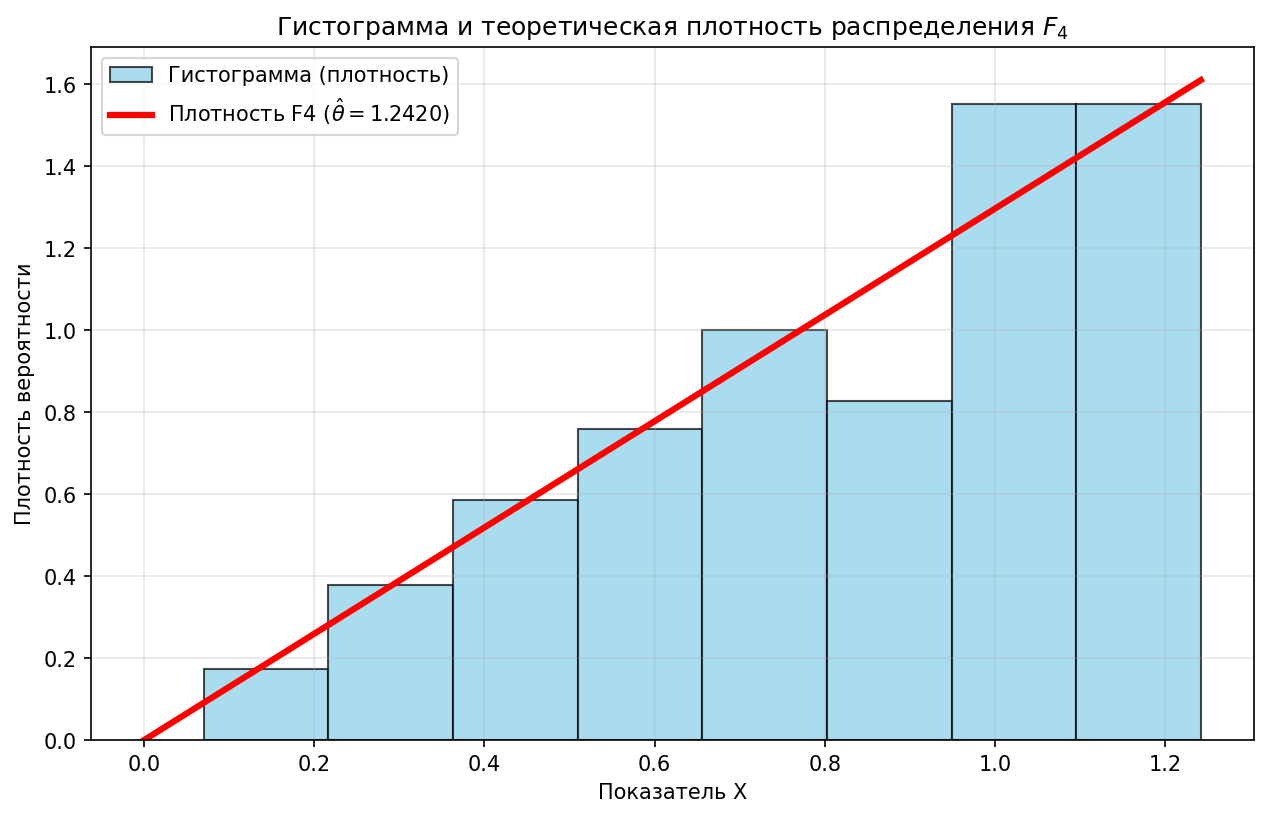
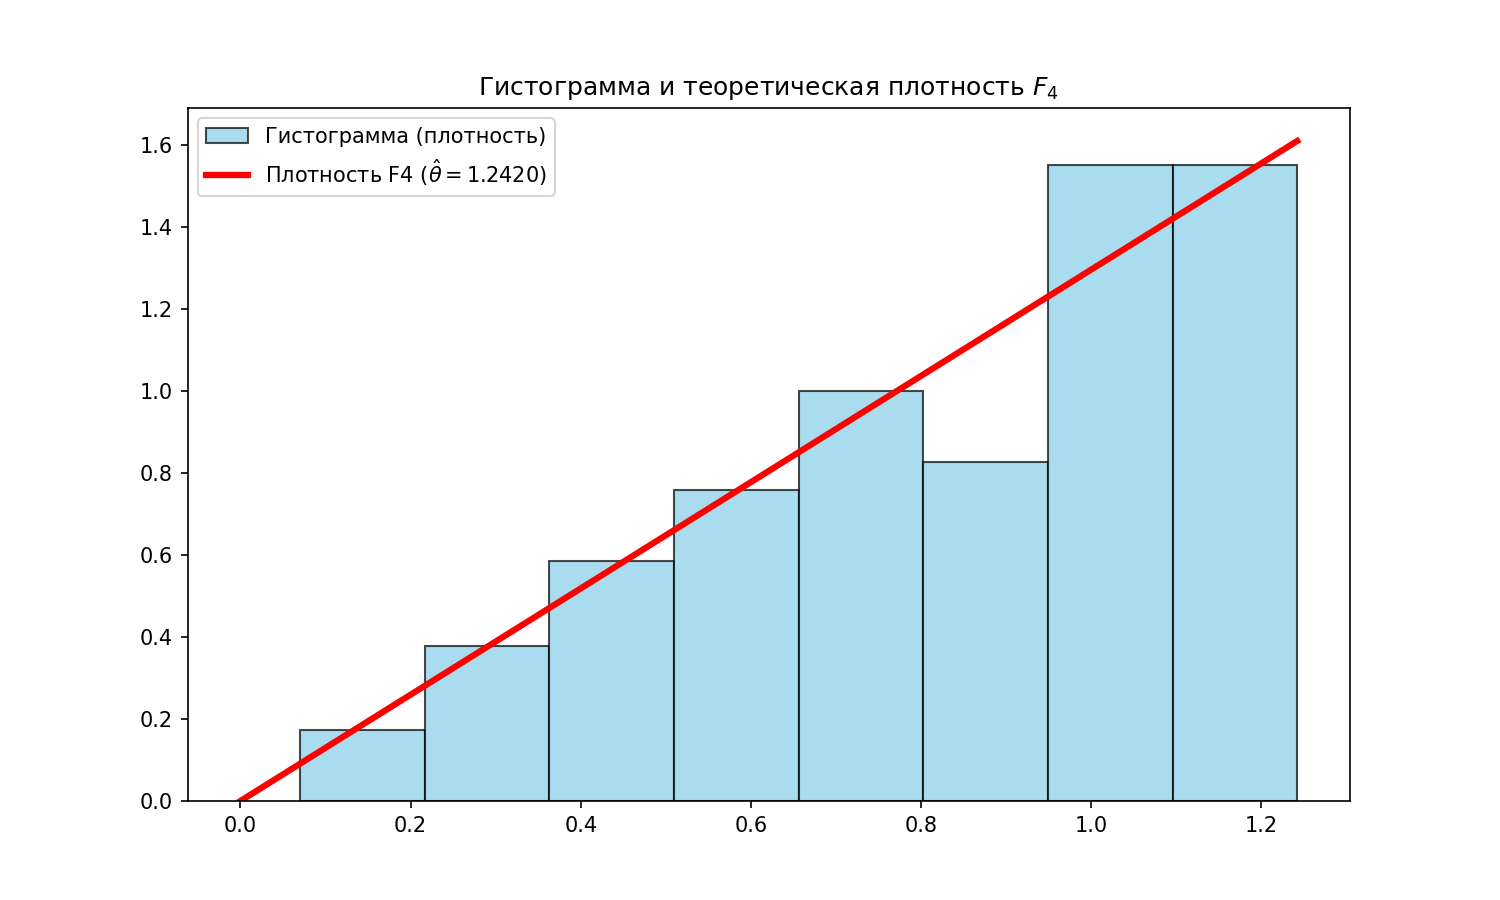
Refactor logging and statistical analysis output in main.py

diff --git a/main.py b/main.py
@@ -7,9 +7,9 @@ import matplotlib.pyplot as plt
 
 logging.basicConfig(
     level=logging.INFO,
-    format="%(asctime)s %(levelname)s: %(message)s",
+    format="%(message)s",
     handlers=[
-        logging.FileHandler('app.log', encoding='utf-8'),
+        logging.FileHandler('statistical_report.log', encoding='utf-8', mode='w'),
         logging.StreamHandler(sys.stdout)
     ]
 )
@@ -20,30 +20,27 @@ sheet_index = 5
 use_col = 0
 
 try:
-    logger.info(f"Attempting to read Excel file `data/data.xls`, sheet index {sheet_index}, column {use_col}")
     col = pd.read_excel(excel_path, sheet_name=sheet_index, usecols=[use_col])
     series = pd.to_numeric(col.iloc[:, 0], errors='coerce').dropna().astype(float)
     data = series.tolist()
-except Exception:
-    logger.exception(f"Failed to read Excel file `data/data.xls` (sheet {sheet_index + 1}, column {use_col + 1})")
-    raise
-
-if not data:
-    logger.error(f"No valid numeric data found in `data/data.xls` (sheet {sheet_index + 1}, column {use_col + 1})")
-    raise ValueError("No numeric data loaded")
+except Exception as e:
+    logger.error(f"Ошибка чтения файла: {e}")
+    sys.exit()
 
 n = len(data)
-logger.info(f"Loaded {n} records from `data/data.xls` (sheet {sheet_index + 1}, column {use_col + 1}). "
-            f"min={min(data):.4f}, max={max(data):.4f}, sample={data[:5]}")
+logger.info("=" * 60)
+logger.info(f"СТАТИСТИЧЕСКИЙ ОТЧЕТ ПО ВЫБОРКЕ (n = {n})")
+logger.info("=" * 60)
 
 # --- 7. Первичный анализ ---
-mean_x = sum(data) / n
-mean_x2 = sum(x ** 2 for x in data) / n
+sum_x = sum(data)
+sum_x2 = sum(x ** 2 for x in data)
+mean_x = sum_x / n
+mean_x2 = sum_x2 / n
 var_x = mean_x2 - (mean_x ** 2)
 std_x = math.sqrt(var_x)
 
 sorted_data = sorted(data)
-
 if n % 2 == 1:
     median = sorted_data[n // 2]
 else:
@@ -51,45 +48,41 @@ else:
 
 m3 = sum((x - mean_x) ** 3 for x in data) / n
 m4 = sum((x - mean_x) ** 4 for x in data) / n
-As = m3 / (std_x ** 3) if std_x != 0 else float('nan')
-Ex = (m4 / (std_x ** 4) - 3) if std_x != 0 else float('nan')
+As = m3 / (std_x ** 3) if std_x != 0 else 0
+Ex = (m4 / (std_x ** 4) - 3) if std_x != 0 else 0
 
-logger.info("\n--- 7. Характеристики ---")
-logger.info(f"Среднее: {mean_x:.4f}")
-logger.info(f"Дисперсия: {var_x:.4f}")
-logger.info(f"Медиана: {median:.4f}")
-logger.info(f"Асимметрия: {As:.4f}")
-logger.info(f"Эксцесс: {Ex:.4f}")
-logger.info(f"Максимум (ОМП для F4): {max(data)}")
+logger.info("\n[ЗАДАНИЕ 7] ВЫБОРОЧНЫЕ ХАРАКТЕРИСТИКИ")
+logger.info(f"1. Сумма X = {sum_x:.4f}")
+logger.info(f"2. Среднее (X_cp) = ΣX / n = {sum_x:.4f} / {n} = {mean_x:.4f}")
+logger.info(f"3. Сумма X^2 = {sum_x2:.4f}")
+logger.info(f"4. Среднее квадратов (X^2_cp) = ΣX^2 / n = {mean_x2:.4f}")
+logger.info(f"5. Дисперсия (S^2) = X^2_cp - (X_cp)^2 = {mean_x2:.4f} - ({mean_x:.4f})^2 = {var_x:.4f}")
+logger.info(f"6. Ср.кв.отклонение (S) = √S^2 = {std_x:.4f}")
+logger.info(f"7. Медиана (x_med): {median:.4f}")
+logger.info(f"8. Асимметрия (As = m3 / S^3): {As:.4f}")
+logger.info(f"9. Эксцесс (Ex = m4 / S^4 - 3): {Ex:.4f}")
+logger.info(f"10. ОМП для F4 (theta = max(X)): {max(data):.4f}")
 
 theta = max(data)
 k_sturges = int(math.log2(n)) + 1
-step = theta / k_sturges
+logger.info(f"\n[ГРАФИК] Параметры группировки: k = [log2({n})] + 1 = {k_sturges} интервалов")
 
 try:
-    logger.info("Building histogram and density plot")
     fig, ax = plt.subplots(figsize=(10, 6))
-
     ax.hist(data, bins=k_sturges, density=True, edgecolor='black', color='skyblue', alpha=0.7,
             label='Гистограмма (плотность)')
-
     x_vals = np.linspace(0, theta, 500)
     f_x = (2 * x_vals) / (theta ** 2)
-
     ax.plot(x_vals, f_x, 'r-', lw=3, label=fr'Плотность F4 ($\hat{{\theta}}={theta:.4f}$)')
-
-    ax.set_xlabel('Показатель X')
-    ax.set_ylabel('Плотность вероятности')
-    ax.set_title('Гистограмма и теоретическая плотность распределения $F_4$')
+    ax.set_title('Гистограмма и теоретическая плотность $F_4$')
     ax.legend()
-    ax.grid(True, alpha=0.3)
-
-    fig.savefig('histogram.png', dpi=150, bbox_inches='tight')
+    fig.savefig('histogram.png', dpi=150)
     plt.close(fig)
-except Exception:
-    logger.exception("Failed to build plot")
+    logger.info("-> График сохранен в `histogram.png`")
+except Exception as e:
+    logger.error(f"Ошибка построения графика: {e}")
 
-# --- 8. Критерий серий (случайность) ---
+# --- 8. Критерий серий ---
 signs = []
 for x in data:
     if x > median:
@@ -101,46 +94,58 @@ n1 = signs.count('+')
 n2 = signs.count('-')
 ks = 1
 for i in range(1, len(signs)):
-    if signs[i] != signs[i - 1]:
-        ks += 1
+    if signs[i] != signs[i - 1]: ks += 1
 
-try:
-    denom = math.sqrt((2 * n1 * n2 * (2 * n1 * n2 - n1 - n2)) / ((n1 + n2) ** 2 * (n1 + n2 - 1)))
-    z_calc_series = ((ks - (2 * n1 * n2) / (n1 + n2) - 1) - 0.5) / denom
-except Exception:
-    logger.exception("Error computing series test statistic (possible division by zero).")
-    raise
+mean_ks = (2 * n1 * n2) / (n1 + n2) + 1
+var_ks = (2 * n1 * n2 * (2 * n1 * n2 - n1 - n2)) / ((n1 + n2) ** 2 * (n1 + n2 - 1))
+std_ks = math.sqrt(var_ks)
+z_calc_series = (ks - mean_ks - 0.5) / std_ks if ks < mean_ks else (ks - mean_ks + 0.5) / std_ks
 
-logger.info("\n--- 8. Случайность ---")
-logger.info(f"n1 (+): {n1}, n2 (-): {n2}, Серий (KS): {ks}")
-logger.info(f"Z_выч: {z_calc_series:.4f} (сравнить с Z_крит=1.96)")
+logger.info("\n[ЗАДАНИЕ 8] ПРОВЕРКА СЛУЧАЙНОСТИ (Критерий серий)")
+logger.info(f"1. Число элементов > медианы (n1) = {n1}")
+logger.info(f"2. Число элементов < медианы (n2) = {n2}")
+logger.info(f"3. Количество серий (KS) = {ks}")
+logger.info(f"4. E[KS] = (2*n1*n2)/(n1+n2) + 1 = {mean_ks:.4f}")
+logger.info(f"5. σ[KS] = √[ (2n1n2(2n1n2-n1-n2)) / ((n1+n2)^2 * (n1+n2-1)) ] = {std_ks:.4f}")
+logger.info(f"6. Z_выч = (KS - E[KS] ± 0.5) / σ[KS] = {z_calc_series:.4f}")
+logger.info(f"7. Критическое Z_крит (α=0.05) = 1.96")
+logger.info(
+    f"ВЫВОД: {'Случайна' if abs(z_calc_series) < 1.96 else 'Не случайна'} (т.к. |Z| {'<' if abs(z_calc_series) < 1.96 else '>'} 1.96)")
 
-# --- 10. Хи-квадрат (вид распределения F4) ---
-k = int(math.log2(n)) + 1
-theta = max(data)
-step = theta / k
+# --- 10. Хи-квадрат ---
+step = theta / k_sturges
 chi_sq = 0
-logger.info("\n--- 10. Хи-квадрат (Интервалы) ---")
+logger.info(f"\n[ЗАДАНИЕ 10] КРИТЕРИЙ ХИ-КВАДРАТ (α=0.1, Распределение F4)")
+logger.info(f"Формула плотности: f(x) = 2x / {theta:.4f}^2")
+logger.info(f"{'Интервал':<20} | {'n_выб':<6} | {'p_i':<8} | {'n_теор':<8} | {'(n-n_т)^2/n_т':<12}")
+logger.info("-" * 75)
 
-for i in range(k):
+for i in range(k_sturges):
     left = i * step
     right = (i + 1) * step
-    if i < k - 1:
+    if i < k_sturges - 1:
         ni_obs = len([x for x in data if left <= x < right])
     else:
         ni_obs = len([x for x in data if left <= x <= right])
-    pi = (right ** 2 - left ** 2) / (theta ** 2) if theta != 0 else 0
-    ni_theor = n * pi
-    if ni_theor > 0:
-        chi_sq += ((ni_obs - ni_theor) ** 2) / ni_theor
-    logger.info(f"Интервал {i + 1} [{left:.2f}-{right:.2f}]: n_выб={ni_obs}, n_теор={ni_theor:.2f}")
 
-logger.info(f"Хи-квадрат выч: {chi_sq:.4f}")
+    p_i = (right ** 2 - left ** 2) / (theta ** 2)
+    ni_theor = n * p_i
+    term = ((ni_obs - ni_theor) ** 2) / ni_theor if ni_theor > 0 else 0
+    chi_sq += term
 
-# --- 12. Манн-Уитни (однородность половин) ---
-group1 = data[:n // 2]
-group2 = data[n // 2:]
-n_mw = len(group1)
+    logger.info(f"[{left:5.2f}; {right:5.2f}) | {ni_obs:6d} | {p_i:8.4f} | {ni_theor:8.2f} | {term:12.4f}")
+
+nu = k_sturges - 1 - 1
+logger.info("-" * 75)
+logger.info(f"1. Хи-квадрат выч = Σ[...] = {chi_sq:.4f}")
+logger.info(f"2. Степени свободы ν = k - r - 1 = {k_sturges} - 1 - 1 = {nu}")
+logger.info(f"3. Для α=0.1 и ν={nu} найди χ^2_крит в таблице 5")
+
+# --- 12. Манн-Уитни ---
+mid = n // 2
+group1 = data[:mid]
+group2 = data[mid:]
+n1_mw, n2_mw = len(group1), len(group2)
 
 u_stat = 0
 for x in group1:
@@ -150,12 +155,16 @@ for x in group1:
         elif x == y:
             u_stat += 0.5
 
-try:
-    z_mw = (u_stat - (n_mw ** 2) / 2) / math.sqrt((n_mw ** 2 * (2 * n_mw + 1)) / 12)
-except Exception:
-    logger.exception("Error computing Mann-Whitney Z (possible division by zero).")
-    raise
+e_u = (n1_mw * n2_mw) / 2
+s_u = math.sqrt((n1_mw * n2_mw * (n1_mw + n2_mw + 1)) / 12)
+z_mw = (u_stat - e_u) / s_u
 
-logger.info("\n--- 12. Манн-Уитни ---")
-logger.info(f"U-статистика: {u_stat}")
-logger.info(f"Z_выч: {z_mw:.4f} (сравнить с Z_крит=2.57)")
+logger.info("\n[ЗАДАНИЕ 12] ОДНОРОДНОСТЬ (Критерий Манна-Уитни)")
+logger.info(f"1. Выборка разделена на две части: n1 = {n1_mw}, n2 = {n2_mw}")
+logger.info(f"2. Статистика U (число инверсий) = {u_stat}")
+logger.info(f"3. E[U] = (n1*n2)/2 = {e_u:.2f}")
+logger.info(f"4. σ[U] = √[ (n1*n2*(n1+n2+1))/12 ] = {s_u:.4f}")
+logger.info(f"5. Z_выч = (U - E[U]) / σ[U] = {z_mw:.4f}")
+logger.info(f"6. Критическое Z_крит (α=0.01, двустороннее) = 2.57")
+logger.info(
+    f"ВЫВОД: {'Однородны' if abs(z_mw) < 2.57 else 'Неоднородны'} (т.к. |Z| {'<' if abs(z_mw) < 2.57 else '>'} 2.57)")
